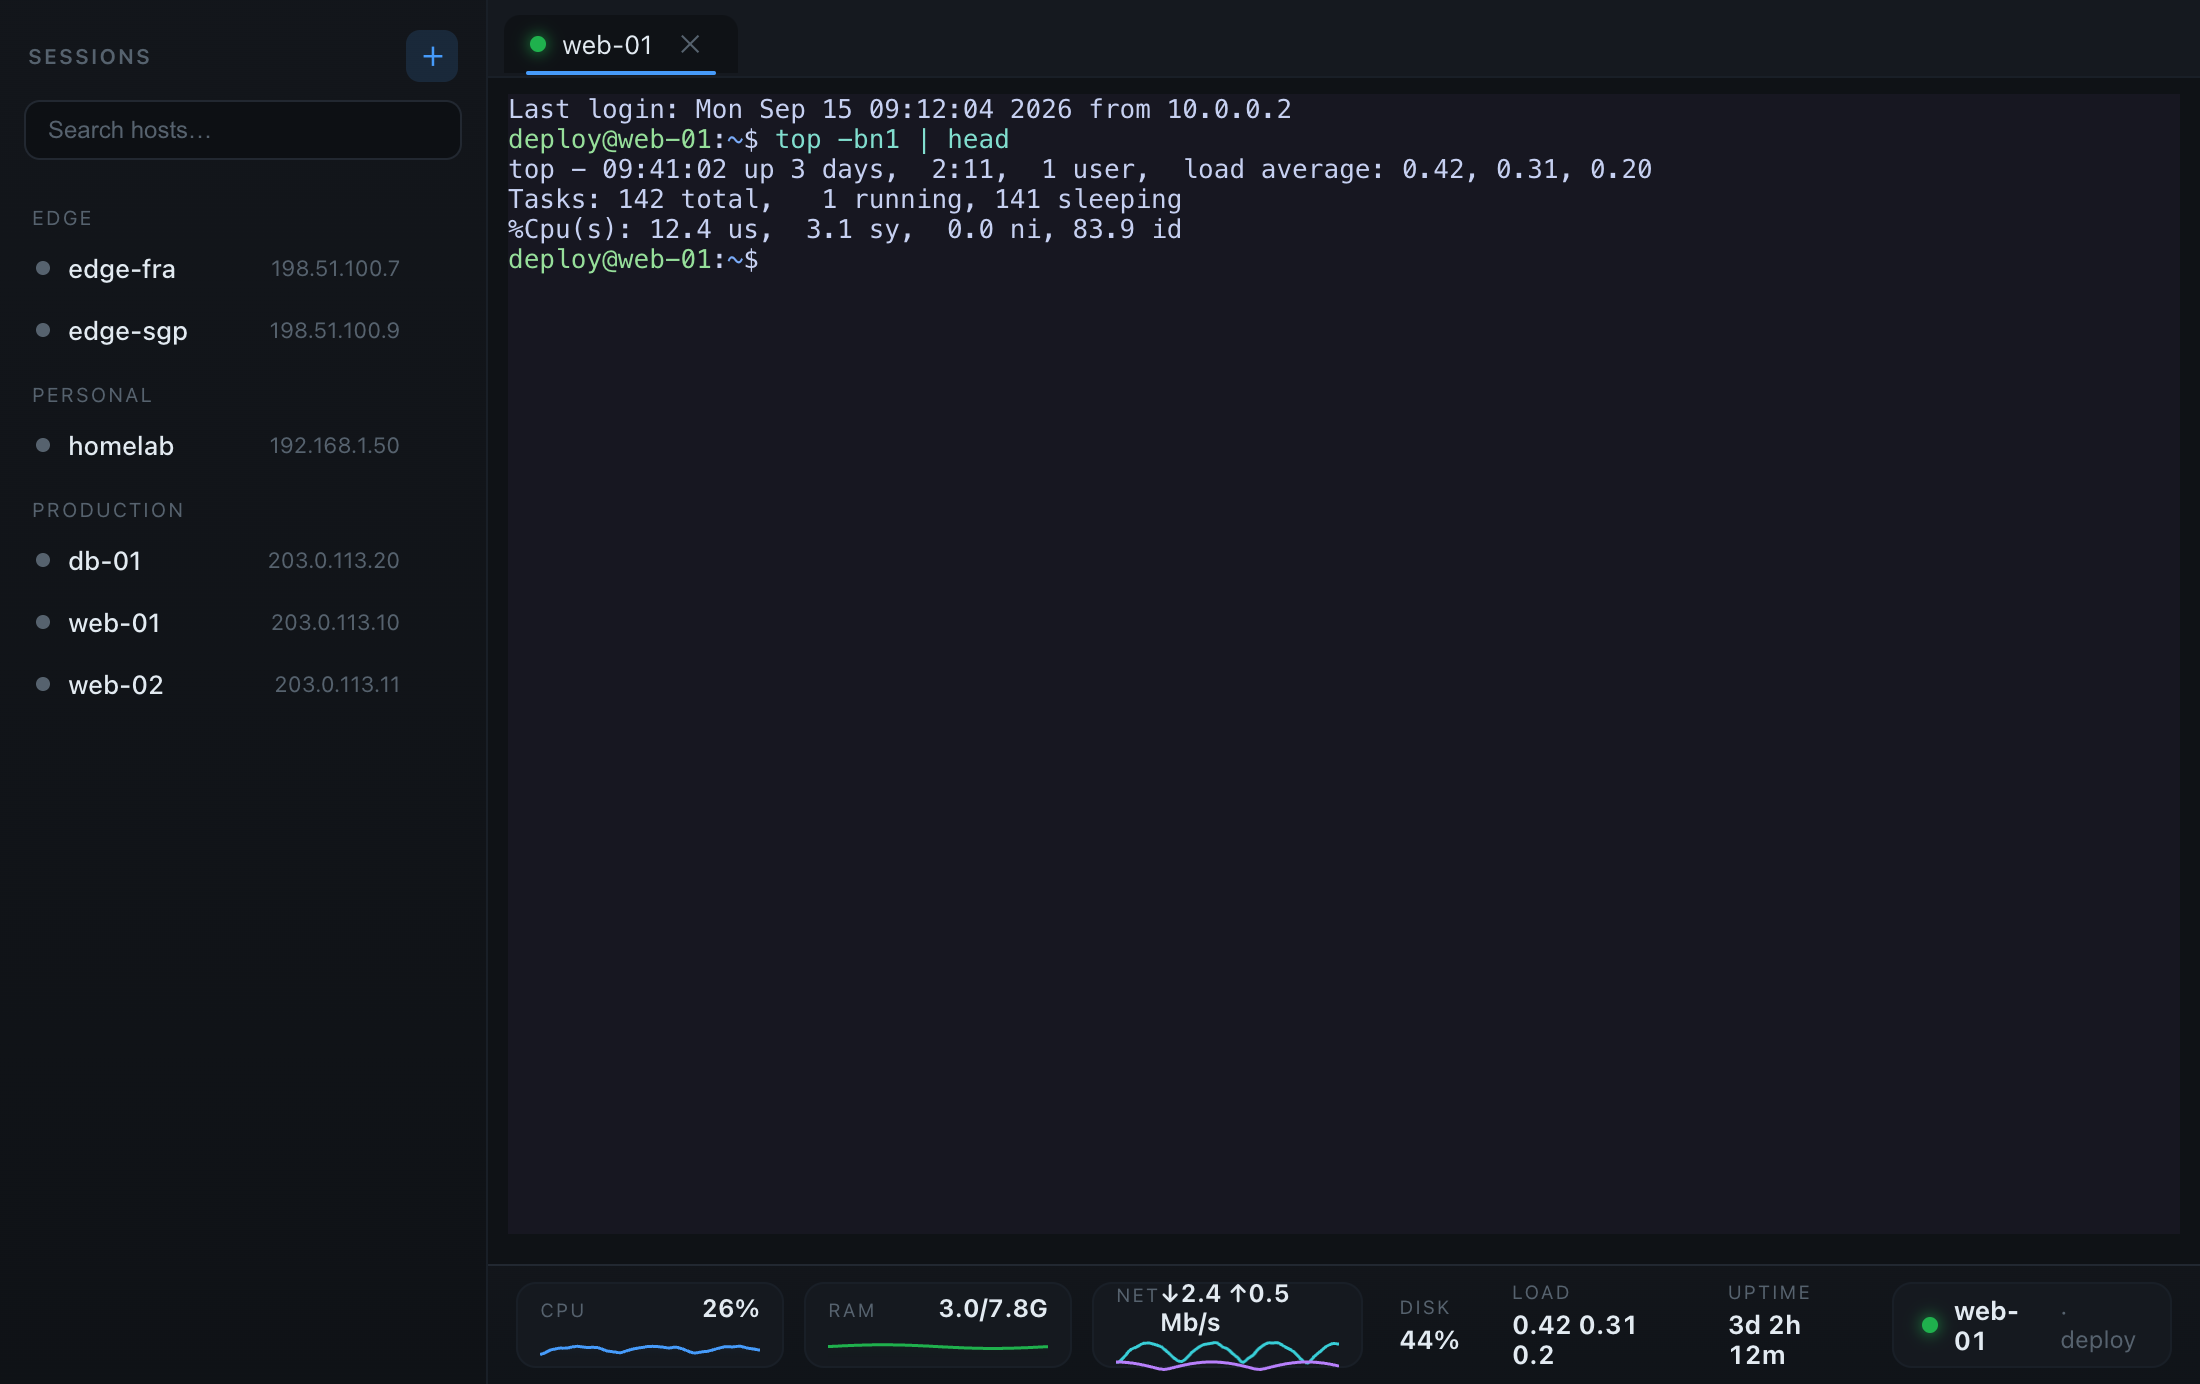
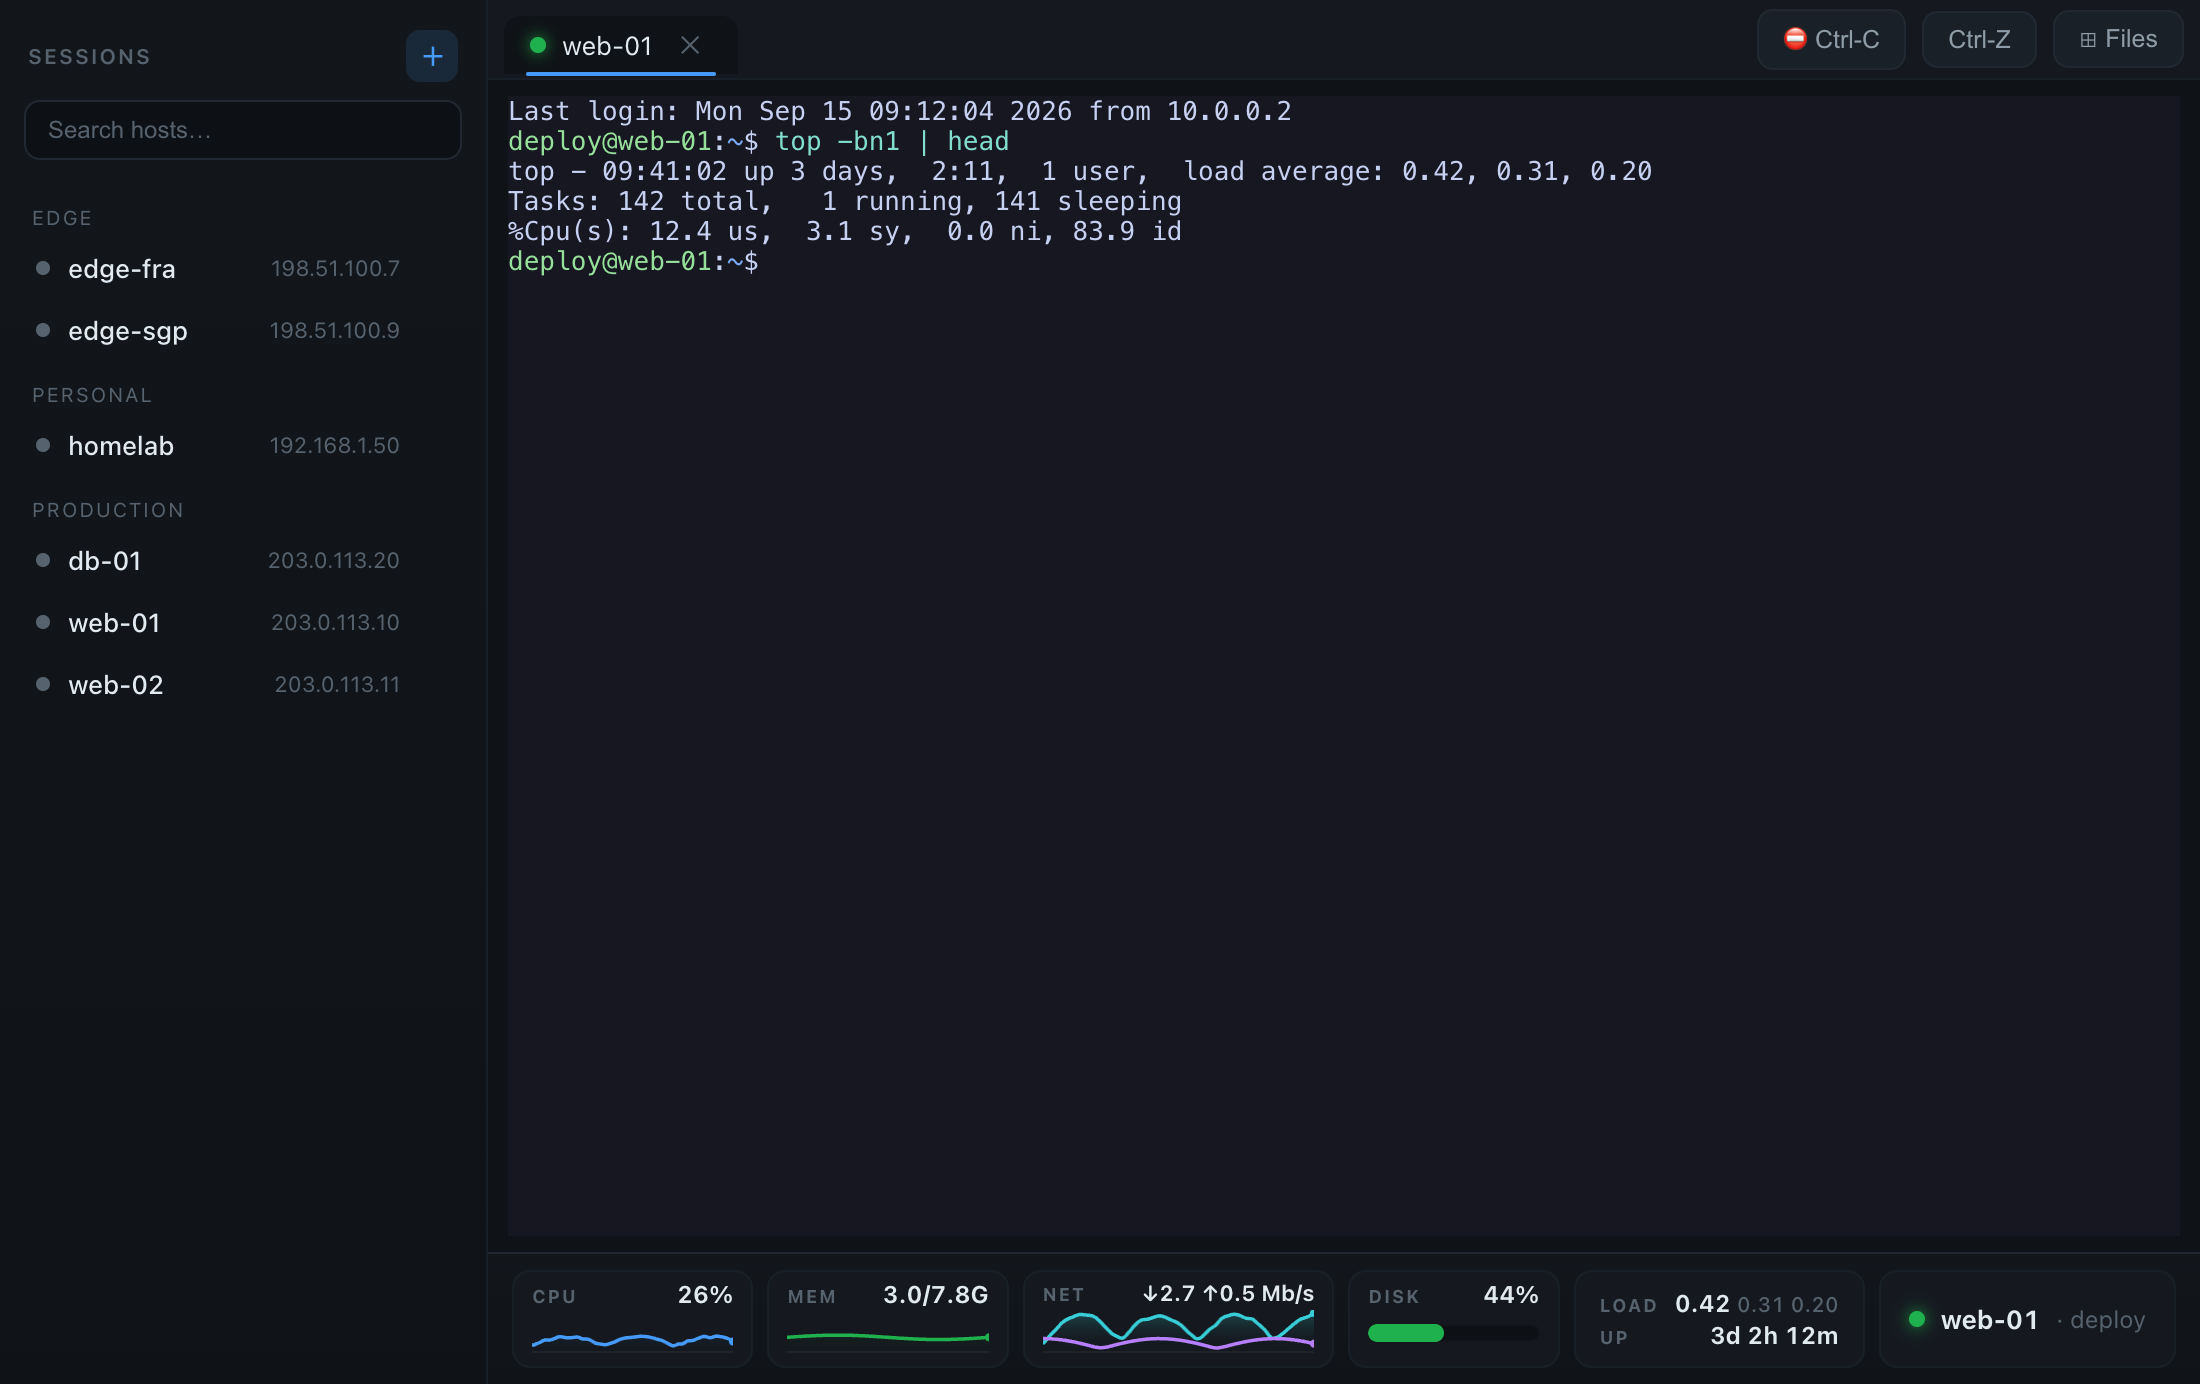
redesign: compact, uniform resource-monitor bar (MobaXterm-style)
The bottom monitor mixed bordered sparkline cards with bare floating text
and left a big empty gap before the host chip. Rework it into one uniform
row of tiles that flex to fill the width:

- CPU / MEM / NET as filled area sparklines (thicker line, baseline, a
  leading-edge value dot); DISK as a colour-graded fill bar.
- LOAD + UPTIME merged into one compact two-row card so the graphs get
  more room and nothing truncates at the default window width.
- NET value formatting made compact (rounds at >=10) and the NET tile
  gets a little extra grow so "down/up Mb/s" always fits.

Refresh the marketing hero screenshot to show the new monitor.

Claude-Session: https://claude.ai/code/session_014Nfa5wELXMxA1yTRcmYg7x

diff --git a/renderer/app.js b/renderer/app.js
@@ -38,7 +38,7 @@
     const maxBits = Math.max(rxBytes, txBytes) * 8;
     let u = units[0];
     for (const c of units) if (maxBits >= c[1]) u = c;
-    const f = (bytes) => { const v = (bytes * 8) / u[1]; return v >= 100 || u[1] === 1 ? v.toFixed(0) : v.toFixed(1); };
+    const f = (bytes) => { const v = (bytes * 8) / u[1]; return v >= 10 || u[1] === 1 ? v.toFixed(0) : v.toFixed(1); };
     return `↓${f(rxBytes)} ↑${f(txBytes)} ${u[0]}`;
   };
   function humanUptime(sec) {
@@ -343,13 +343,16 @@
     const ctx = canvas.getContext('2d');
     ctx.setTransform(dpr, 0, 0, dpr, 0, 0);
     ctx.clearRect(0, 0, w, hg);
+    // faint baseline so a flat/empty series still reads as a graph
+    ctx.strokeStyle = 'rgba(255,255,255,.05)'; ctx.lineWidth = 1;
+    ctx.beginPath(); ctx.moveTo(0, hg - 1); ctx.lineTo(w, hg - 1); ctx.stroke();
     const stepX = w / (MON_PTS - 1);
     for (const s of series) {
       const data = s.data;
       if (!data || data.length < 2) continue;
       const max = yMax || Math.max(1, ...data);
       const x0 = w - (data.length - 1) * stepX;
-      const pts = data.map((v, i) => [x0 + i * stepX, hg - 1 - (Math.min(v, max) / max) * (hg - 2)]);
+      const pts = data.map((v, i) => [x0 + i * stepX, hg - 1.5 - (Math.min(v, max) / max) * (hg - 3)]);
       const trace = () => {
         ctx.moveTo(pts[0][0], pts[0][1]);
         for (let i = 1; i < pts.length; i++) {
@@ -366,32 +369,46 @@
         ctx.fillStyle = g; ctx.fill();
       }
       ctx.beginPath(); trace();
-      ctx.lineWidth = 1.5; ctx.lineJoin = 'round'; ctx.strokeStyle = s.color; ctx.stroke();
+      ctx.lineWidth = 1.75; ctx.lineJoin = 'round'; ctx.strokeStyle = s.color; ctx.stroke();
+      // current-value dot at the leading edge
+      const last = pts[pts.length - 1];
+      ctx.beginPath(); ctx.arc(last[0], last[1], 2, 0, Math.PI * 2); ctx.fillStyle = s.color; ctx.fill();
     }
   }
 
-  const gCanvas = (k) => document.querySelector(`#monitor .sg[data-k="${k}"] canvas`);
-  const setV = (k, v) => { const e = document.querySelector(`#monitor .sg[data-k="${k}"] .sv`); if (e) e.textContent = v; };
-  const setChip = (id, v) => { const e = document.querySelector(`#${id} .sv`); if (e) e.textContent = v; };
+  const gCanvas = (k) => document.querySelector(`#monitor .gcell[data-k="${k}"] canvas`);
+  const setV = (k, v) => { const e = document.querySelector(`#monitor .gcell[data-k="${k}"] .gv`); if (e) e.textContent = v; };
+  const fmtLoad = (x) => { const n = parseFloat(x); return isFinite(n) ? n.toFixed(2) : '—'; };
+
+  // DISK renders as a colour-graded fill bar rather than a sparkline (it barely changes).
+  function setDisk(pct) {
+    setV('disk', pct != null ? Math.round(pct) + '%' : '—');
+    const bar = document.querySelector('#monitor .gcell[data-k="disk"] .track > i');
+    if (!bar) return;
+    const p = pct != null ? Math.max(0, Math.min(100, pct)) : 0;
+    bar.style.width = p + '%';
+    bar.style.background = p >= 90 ? 'var(--red)' : p >= 70 ? 'var(--yellow)' : 'var(--green)';
+  }
 
   function clearMonitor() {
     ['cpu', 'ram', 'net'].forEach((k) => { const cv = gCanvas(k); if (cv) cv.getContext('2d').clearRect(0, 0, cv.width, cv.height); setV(k, '—'); });
-    setChip('mon-disk', '—'); setChip('mon-load', '—'); setChip('mon-up', '—');
+    setDisk(null);
+    el('mon-load').textContent = '—'; el('mon-up').textContent = '—';
     el('mon-host').textContent = '—'; el('mon-user').textContent = '';
   }
 
   function renderMonitor(t) {
     if (!t) return clearMonitor();
     const m = t.metrics, h = t.history, s = t.session || {};
-    drawSpark(gCanvas('cpu'), [{ data: h.cpu, color: '#58a6ff', fill: 'rgba(88,166,255,0.40)' }], 100);
-    drawSpark(gCanvas('ram'), [{ data: h.ram, color: '#3fb950', fill: 'rgba(63,185,80,0.34)' }], 100);
-    drawSpark(gCanvas('net'), [{ data: h.rx, color: '#56d4dd' }, { data: h.tx, color: '#bc8cff' }], Math.max(1024, ...h.rx, ...h.tx));
+    drawSpark(gCanvas('cpu'), [{ data: h.cpu, color: '#58a6ff', fill: 'rgba(88,166,255,0.45)' }], 100);
+    drawSpark(gCanvas('ram'), [{ data: h.ram, color: '#3fb950', fill: 'rgba(63,185,80,0.40)' }], 100);
+    drawSpark(gCanvas('net'), [{ data: h.rx, color: '#56d4dd', fill: 'rgba(86,212,221,0.28)' }, { data: h.tx, color: '#bc8cff' }], Math.max(1024, ...h.rx, ...h.tx));
     setV('cpu', m && m.cpuPct != null ? Math.round(m.cpuPct) + '%' : '—');
     setV('ram', m && m.memTotal ? humanMem(m.memUsed, m.memTotal) : '—');
     setV('net', m && m.netRxRate != null ? fmtNet(m.netRxRate, m.netTxRate) : '—');
-    setChip('mon-disk', m && m.diskPct != null ? m.diskPct + '%' : '—');
-    setChip('mon-load', m && m.load ? `${m.load.one} ${m.load.five} ${m.load.fifteen}` : '—');
-    setChip('mon-up', m && m.uptime != null ? humanUptime(m.uptime) : '—');
+    setDisk(m && m.diskPct != null ? m.diskPct : null);
+    el('mon-load').innerHTML = m && m.load ? `${fmtLoad(m.load.one)} <span class="dim">${fmtLoad(m.load.five)} ${fmtLoad(m.load.fifteen)}</span>` : '—';
+    el('mon-up').textContent = m && m.uptime != null ? humanUptime(m.uptime) : '—';
     el('mon-host').textContent = s.name || s.host || '—';
     el('mon-user').textContent = s.username ? '· ' + s.username : '';
   }

diff --git a/renderer/styles.css b/renderer/styles.css
@@ -87,17 +87,27 @@ body {
 .empty { color: var(--fg-faint); text-align: center; margin-top: 24vh; font-size: 13px; line-height: 1.8; }
 .empty b { color: var(--fg-dim); }
 
-/* Monitor bar (modern telemetry) */
-#monitor { display: flex; align-items: stretch; gap: 10px; background: linear-gradient(180deg, #12161d, #0e131a); border-top: 1px solid var(--border); padding: 8px 14px; height: 60px; font-variant-numeric: tabular-nums; }
-.stat { display: flex; flex-direction: column; justify-content: center; }
-.stat.sg { min-width: 134px; background: var(--bg-elev); border: 1px solid var(--border-soft); border-radius: 10px; padding: 5px 11px 4px; gap: 2px; }
-.stat.sg .sh { display: flex; align-items: baseline; justify-content: space-between; }
-.stat .sk { font-size: 9.5px; letter-spacing: .1em; text-transform: uppercase; color: var(--fg-faint); }
-.stat.sg .sv { font-size: 12.5px; font-weight: 650; color: var(--fg); }
-.stat.sg canvas.spark { width: 100%; height: 17px; display: block; }
-.stat.sc { justify-content: center; gap: 3px; padding: 0 8px; }
-.stat.sc .sv { font-size: 13px; font-weight: 650; color: var(--fg); }
-.conn-chip { margin-left: auto; display: flex; align-items: center; gap: 8px; padding: 0 14px; background: var(--bg-elev); border: 1px solid var(--border-soft); border-radius: 10px; }
+/* Monitor bar (uniform telemetry tiles, MobaXterm-style) */
+#monitor { display: flex; align-items: stretch; gap: 7px; background: linear-gradient(180deg, #12161d, #0e131a); border-top: 1px solid var(--border); padding: 8px 12px; height: 66px; font-variant-numeric: tabular-nums; }
+.mon-graphs { display: flex; gap: 7px; flex: 1 1 auto; min-width: 0; }
+.gcell { flex: 1 1 0; min-width: 0; background: var(--bg-elev); border: 1px solid var(--border-soft); border-radius: 9px; padding: 5px 9px 6px; display: flex; flex-direction: column; gap: 3px; overflow: hidden; }
+.gcell[data-k="net"] { flex-grow: 1.35; }
+.gcell[data-k="disk"] { flex-grow: .85; }
+.gcell .gh { display: flex; align-items: baseline; justify-content: space-between; gap: 5px; line-height: 1; }
+.gk { font-size: 9px; letter-spacing: .1em; text-transform: uppercase; color: var(--fg-faint); font-weight: 700; flex: none; }
+.gv { font-size: 12px; font-weight: 650; color: var(--fg); white-space: nowrap; overflow: hidden; text-overflow: ellipsis; text-align: right; flex: 1 1 auto; }
+.gcell[data-k="net"] .gv { font-size: 11px; letter-spacing: -.01em; }
+.gcell canvas.spark { flex: 1 1 auto; width: 100%; min-height: 0; display: block; }
+.gbar { flex: 1 1 auto; display: flex; align-items: center; }
+.gbar .track { flex: 1; height: 9px; border-radius: 5px; background: var(--bg-inset); overflow: hidden; box-shadow: inset 0 0 0 1px rgba(255, 255, 255, .02); }
+.gbar .track > i { display: block; height: 100%; width: 0; border-radius: 5px; background: var(--green); transition: width .3s, background .3s; }
+.mon-info { flex: none; display: flex; align-items: stretch; gap: 7px; }
+.istack { background: var(--bg-elev); border: 1px solid var(--border-soft); border-radius: 9px; padding: 4px 12px; display: flex; flex-direction: column; justify-content: center; gap: 4px; }
+.irow { display: flex; align-items: baseline; gap: 8px; justify-content: space-between; line-height: 1; }
+.ik { font-size: 9px; letter-spacing: .1em; text-transform: uppercase; color: var(--fg-faint); font-weight: 700; }
+.iv { font-size: 12px; font-weight: 650; color: var(--fg); white-space: nowrap; text-align: right; }
+.iv .dim { color: var(--fg-faint); font-weight: 500; font-size: 10.5px; }
+.conn-chip { flex: none; display: flex; align-items: center; gap: 8px; padding: 0 14px; background: var(--bg-elev); border: 1px solid var(--border-soft); border-radius: 9px; }
 .conn-chip .cdot { width: 8px; height: 8px; border-radius: 50%; background: var(--green); box-shadow: 0 0 8px var(--green); flex: none; }
 .conn-chip .ch { font-weight: 650; }
 .conn-chip .cu { color: var(--fg-faint); font-size: 12px; }

diff --git a/renderer/index.html b/renderer/index.html
@@ -30,13 +30,19 @@
         <div id="files-dock" hidden></div>
       </div>
       <div id="monitor">
-        <div class="stat sg" data-k="cpu"><div class="sh"><span class="sk">CPU</span><span class="sv">—</span></div><canvas class="spark"></canvas></div>
-        <div class="stat sg" data-k="ram"><div class="sh"><span class="sk">RAM</span><span class="sv">—</span></div><canvas class="spark"></canvas></div>
-        <div class="stat sg" data-k="net"><div class="sh"><span class="sk">NET</span><span class="sv">—</span></div><canvas class="spark"></canvas></div>
-        <div class="stat sc" id="mon-disk"><span class="sk">DISK</span><span class="sv">—</span></div>
-        <div class="stat sc" id="mon-load"><span class="sk">LOAD</span><span class="sv">—</span></div>
-        <div class="stat sc" id="mon-up"><span class="sk">UPTIME</span><span class="sv">—</span></div>
-        <div class="conn-chip"><span class="cdot"></span><span class="ch" id="mon-host">—</span><span class="cu" id="mon-user"></span></div>
+        <div class="mon-graphs">
+          <div class="gcell" data-k="cpu"><div class="gh"><span class="gk">CPU</span><span class="gv">—</span></div><canvas class="spark"></canvas></div>
+          <div class="gcell" data-k="ram"><div class="gh"><span class="gk">MEM</span><span class="gv">—</span></div><canvas class="spark"></canvas></div>
+          <div class="gcell" data-k="net"><div class="gh"><span class="gk">NET</span><span class="gv">—</span></div><canvas class="spark"></canvas></div>
+          <div class="gcell" data-k="disk"><div class="gh"><span class="gk">DISK</span><span class="gv">—</span></div><div class="gbar"><span class="track"><i></i></span></div></div>
+        </div>
+        <div class="mon-info">
+          <div class="istack">
+            <div class="irow"><span class="ik">LOAD</span><span class="iv" id="mon-load">—</span></div>
+            <div class="irow"><span class="ik">UP</span><span class="iv" id="mon-up">—</span></div>
+          </div>
+          <div class="conn-chip"><span class="cdot"></span><span class="ch" id="mon-host">—</span><span class="cu" id="mon-user"></span></div>
+        </div>
       </div>
     </section>
   </div>
